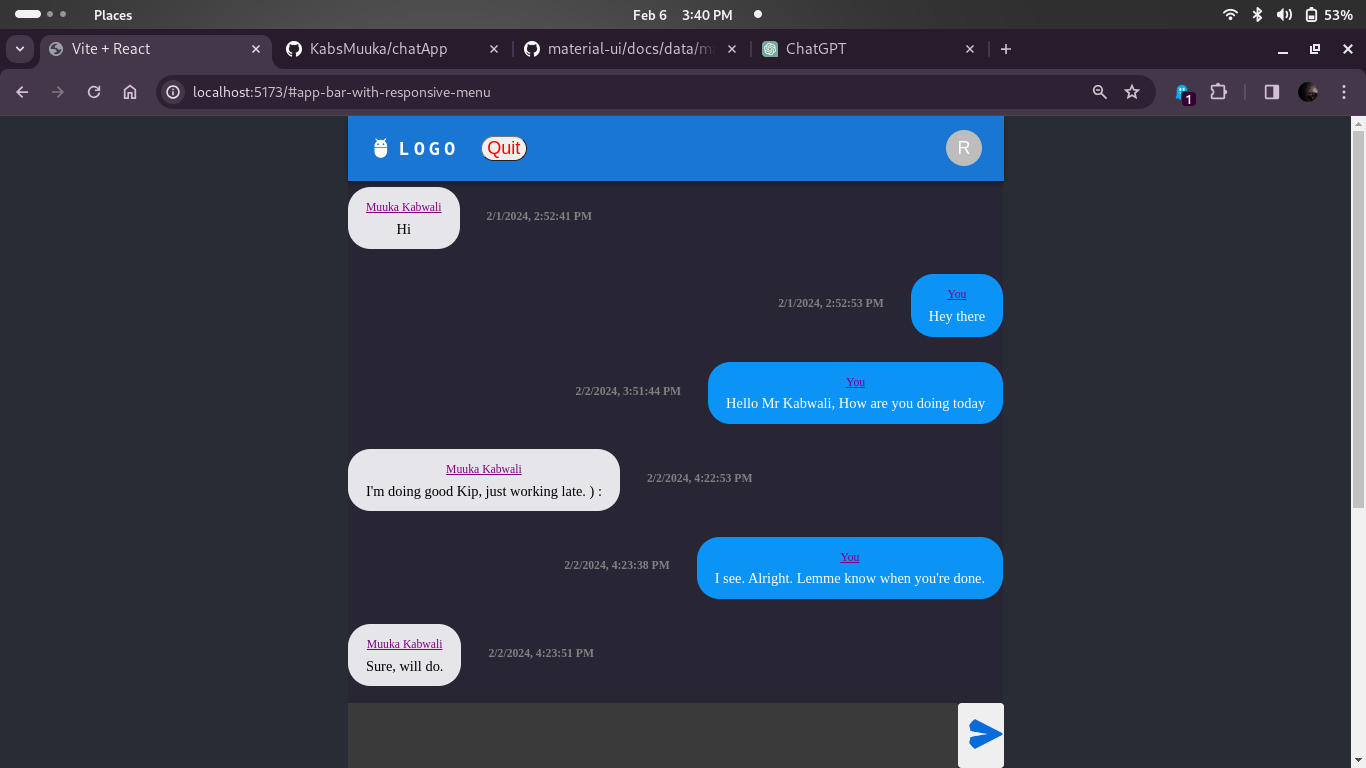
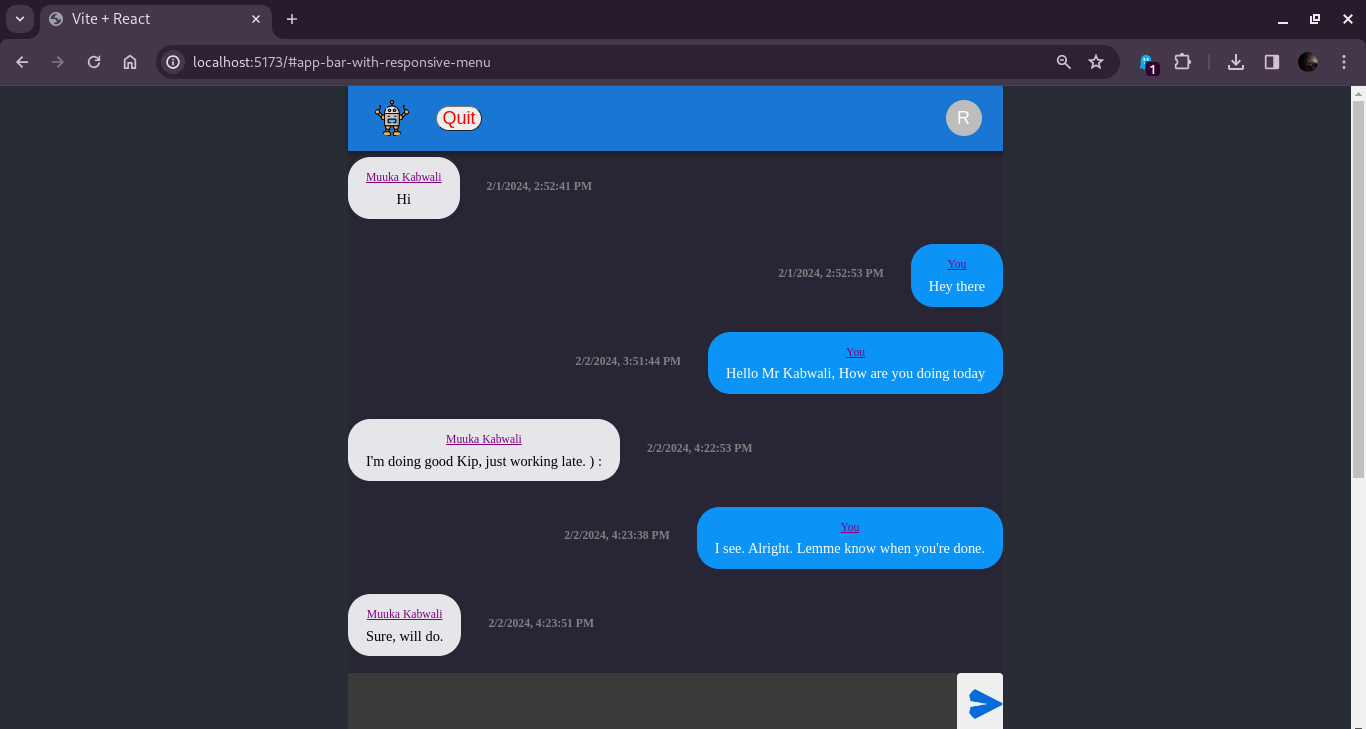
minor changes

diff --git a/conmponents/Footer.jsx b/conmponents/Footer.jsx
@@ -1,0 +1,68 @@
+import * as React from "react";
+import CssBaseline from "@mui/material/CssBaseline";
+import { createTheme, ThemeProvider } from "@mui/material/styles";
+import Box from "@mui/material/Box";
+import Typography from "@mui/material/Typography";
+import Container from "@mui/material/Container";
+import Link from "@mui/material/Link";
+
+function Copyright() {
+  return (
+    <Typography variant="body2" color="text.secondary">
+      {"Copyright © "}
+      <Link color="inherit" href="https://mui.com/">
+        Your Website
+      </Link>{" "}
+      {new Date().getFullYear()}
+      {"."}
+    </Typography>
+  );
+}
+
+// TODO remove, this demo shouldn't need to reset the theme.
+const defaultTheme = createTheme();
+
+export default function StickyFooter() {
+  return (
+    <ThemeProvider theme={defaultTheme}>
+      <Box
+        sx={{
+          display: "flex",
+          flexDirection: "column",
+          minHeight: "100vh",
+        }}
+      >
+        <CssBaseline />
+        <Container component="main" sx={{ mt: 8, mb: 2 }} maxWidth="sm">
+          <Typography variant="h2" component="h1" gutterBottom>
+            Sticky footer
+          </Typography>
+          <Typography variant="h5" component="h2" gutterBottom>
+            {"Pin a footer to the bottom of the viewport."}
+            {"The footer will move as the main element of the page grows."}
+          </Typography>
+          <Typography variant="body1">Sticky footer placeholder.</Typography>
+        </Container>
+        <Box
+          component="footer"
+          sx={{
+            py: 3,
+            px: 2,
+            mt: "auto",
+            backgroundColor: (theme) =>
+              theme.palette.mode === "light"
+                ? theme.palette.grey[200]
+                : theme.palette.grey[800],
+          }}
+        >
+          <Container maxWidth="sm">
+            <Typography variant="body1">
+              My sticky footer can be found here.
+            </Typography>
+            <Copyright />
+          </Container>
+        </Box>
+      </Box>
+    </ThemeProvider>
+  );
+}

diff --git a/conmponents/Header.tsx b/conmponents/Header.tsx
@@ -44,7 +44,6 @@ function ResponsiveAppBar() {
     <AppBar position="static">
       <Container style={{ maxWidth: "100%" }}>
         <Toolbar disableGutters>
-          <AdbIcon sx={{ display: { xs: "none", md: "flex" }, mr: 1 }} />
           <Typography
             variant="h6"
             noWrap
@@ -60,7 +59,10 @@ function ResponsiveAppBar() {
               textDecoration: "none",
             }}
           >
-            LOGO
+            <img
+              src="/robot.png"
+              title="Hello Stranger! I'm here to help you with anything you need!"
+            />
           </Typography>
 
           <Box sx={{ flexGrow: 1, display: { xs: "flex", md: "none" } }}>
@@ -99,7 +101,7 @@ function ResponsiveAppBar() {
               ))}
             </Menu>
           </Box>
-          <AdbIcon sx={{ display: { xs: "flex", md: "none" }, mr: 1 }} />
+
           <Typography
             variant="h5"
             noWrap
@@ -116,7 +118,10 @@ function ResponsiveAppBar() {
               textDecoration: "none",
             }}
           >
-            LOGO
+            <img
+              src="/robot.png"
+              title="Hello Stranger! I'm here to help you with anything you need!"
+            />
           </Typography>
           <Box sx={{ flexGrow: 1, display: { xs: "none", md: "flex" } }}>
             {pages.map((page) => (
